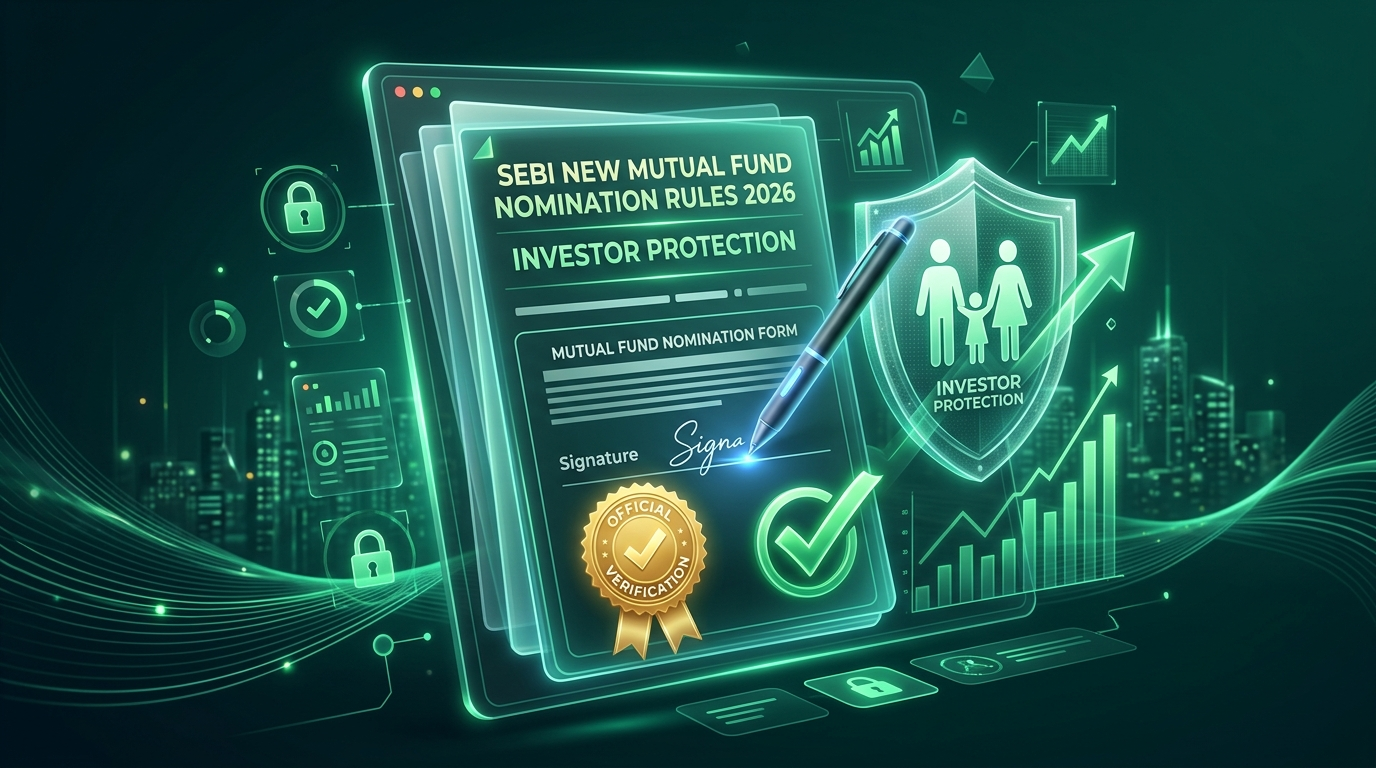
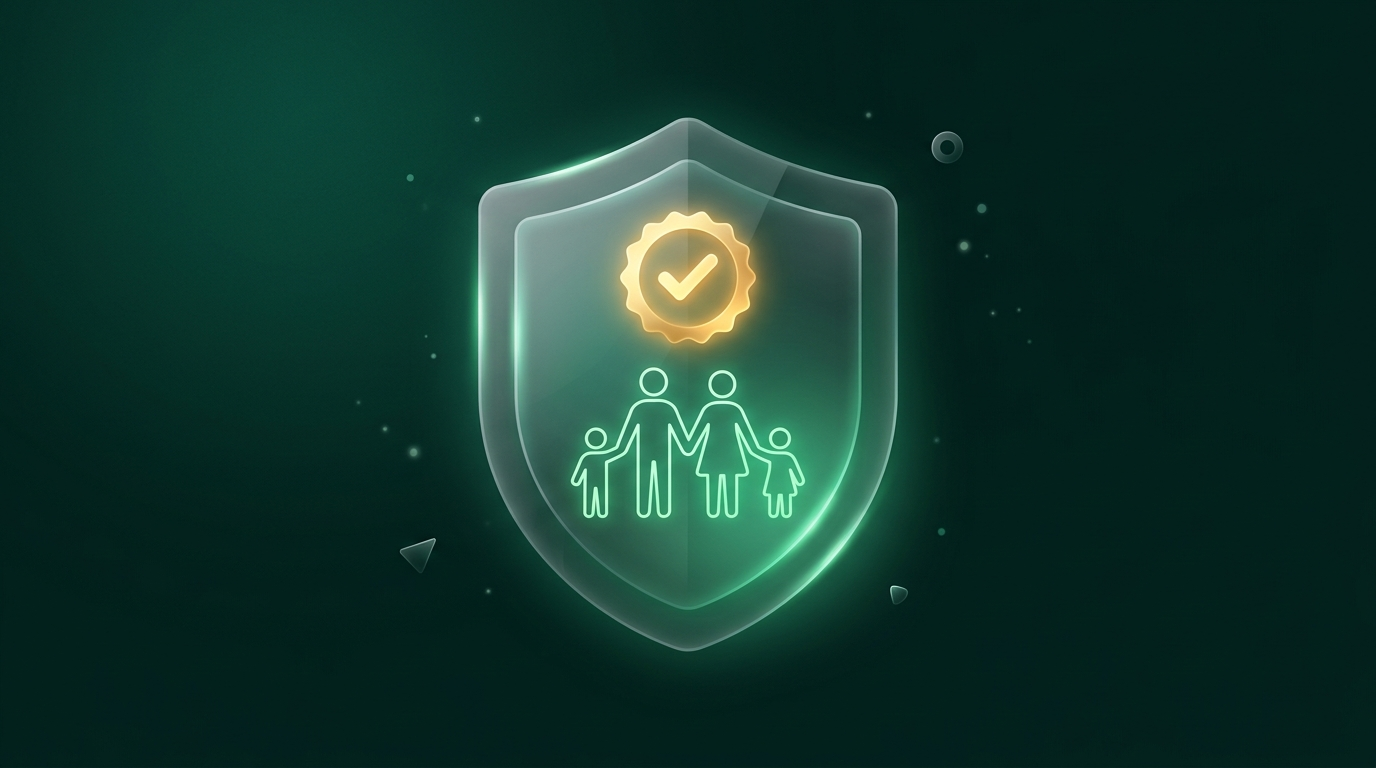
feat: upgrade blog covers to Finshots-style minimalist 16:9 art, add key takeaways and read-time badges

diff --git a/src/app/blog/page.tsx b/src/app/blog/page.tsx
@@ -115,11 +115,28 @@ export default async function BlogPage({
                 const authorName = 'Vikrant Bhardwaj';
                 const postPath = `/blog/${post.slug}`;
                 const coverImage = LOCAL_BLOG_COVERS[post.slug] || post.image_url;
+                const wordCount = post.content ? post.content.split(/\s+/).length : 400;
+                const readTimeMinutes = Math.max(2, Math.ceil(wordCount / 220));
+                
+                // Determine clean category badge
+                let category = 'INVESTING';
+                const lowerTitle = post.title.toLowerCase();
+                if (lowerTitle.includes('nomination') || lowerTitle.includes('sebi') || lowerTitle.includes('rule')) {
+                  category = 'REGULATION';
+                } else if (lowerTitle.includes('market down') || lowerTitle.includes('vix') || lowerTitle.includes('correction')) {
+                  category = 'MARKET STRATEGY';
+                } else if (lowerTitle.includes('tax') || lowerTitle.includes('taxation')) {
+                  category = 'TAX PLANNING';
+                } else if (lowerTitle.includes('sip') || lowerTitle.includes('lump sum') || lowerTitle.includes('mutual fund')) {
+                  category = 'MUTUAL FUNDS';
+                } else if (lowerTitle.includes('himachal') || lowerTitle.includes('salaried') || lowerTitle.includes('employee')) {
+                  category = 'WEALTH PLANNING';
+                }
                 
                 return (
                   <article
                     key={post.id}
-                    className="relative group bg-[#051613]/50 backdrop-blur-md rounded-2xl overflow-hidden border border-emerald-900/40 hover:border-emerald-500/50 hover:shadow-[0_8px_40px_rgba(0,255,151,0.12)] transition-all duration-500 hover:-translate-y-1 flex flex-col h-full"
+                    className="relative group bg-[#051613]/70 backdrop-blur-md rounded-2xl overflow-hidden border border-emerald-900/40 hover:border-emerald-500/50 hover:shadow-[0_8px_40px_rgba(0,255,151,0.15)] transition-all duration-500 hover:-translate-y-1 flex flex-col h-full"
                   >
                     {/* Inner glowing accent */}
                     <div className="absolute inset-0 bg-gradient-to-b from-stockstrail-green/5 to-transparent opacity-0 group-hover:opacity-100 transition-opacity duration-500 pointer-events-none" />
@@ -134,7 +151,17 @@ export default async function BlogPage({
                             className="object-cover group-hover/img:scale-105 transition-transform duration-700 ease-out"
                             sizes="(max-width: 768px) 100vw, (max-width: 1200px) 50vw, 33vw"
                           />
-                          <div className="absolute inset-0 bg-gradient-to-t from-[#051613] via-transparent to-transparent opacity-80" />
+                          <div className="absolute inset-0 bg-gradient-to-t from-[#051613] via-transparent to-transparent opacity-70" />
+                          
+                          {/* Category Badge */}
+                          <div className="absolute top-3 left-3 px-2.5 py-1 rounded-full bg-[#011a18]/85 border border-emerald-500/40 text-[10px] font-mono font-bold uppercase tracking-wider text-emerald-300 backdrop-blur-md">
+                            {category}
+                          </div>
+
+                          {/* Read Time Pill */}
+                          <div className="absolute top-3 right-3 px-2.5 py-1 rounded-full bg-black/60 border border-white/10 text-[10px] font-mono text-slate-300 backdrop-blur-md">
+                            ⏱ {readTimeMinutes} min read
+                          </div>
                         </div>
                       ) : (
                         <div className="w-full aspect-[16/9] relative bg-gradient-to-br from-emerald-900/40 to-[#051613] flex items-center justify-center">
@@ -150,28 +177,28 @@ export default async function BlogPage({
 
                     <div className="flex-1 flex flex-col p-5 sm:p-6 relative z-10">
                       <div className="flex-1">
-                        <h2 className="text-lg sm:text-xl font-semibold mb-2 font-product-sans leading-snug text-stockstrail-green group-hover:text-emerald-300 transition-colors duration-300 line-clamp-2">
+                        <h2 className="text-lg sm:text-xl font-semibold mb-2 font-product-sans leading-snug text-white group-hover:text-emerald-300 transition-colors duration-300 line-clamp-2">
                           <Link href={postPath} className="focus:outline-none before:absolute before:inset-0">
                             {post.title}
                           </Link>
                         </h2>
                         {post.excerpt && (
-                          <p className="text-white/60 text-sm leading-relaxed mb-4 line-clamp-2 font-work-sans">
+                          <p className="text-white/60 text-xs sm:text-sm leading-relaxed mb-4 line-clamp-2 font-work-sans">
                             {post.excerpt}
                           </p>
                         )}
                       </div>
 
-                      <div className="flex items-center justify-between pt-5 mt-auto border-t border-white/5 group-hover:border-emerald-500/20 transition-colors duration-500">
-                        <p className="text-white/40 text-xs sm:text-sm font-work-sans flex items-center gap-1.5">
+                      <div className="flex items-center justify-between pt-4 mt-auto border-t border-white/5 group-hover:border-emerald-500/20 transition-colors duration-500">
+                        <p className="text-white/40 text-xs font-work-sans flex items-center gap-1.5">
                            <svg className="w-3.5 h-3.5" fill="none" viewBox="0 0 24 24" stroke="currentColor">
                             <path strokeLinecap="round" strokeLinejoin="round" strokeWidth={2} d="M8 7V3m8 4V3m-9 8h10M5 21h14a2 2 0 002-2V7a2 2 0 00-2-2H5a2 2 0 00-2 2v12a2 2 0 002 2z" />
                           </svg>
                           {format(new Date(post.created_at), 'MMM d, yyyy')}
                         </p>
-                        <Link href={postPath} className="relative z-20 inline-flex items-center gap-1.5 bg-gradient-to-r from-emerald-500/20 to-stockstrail-green/20 hover:from-emerald-400/40 hover:to-stockstrail-green/40 border border-emerald-500/30 hover:border-emerald-400 text-stockstrail-green hover:text-white font-medium transition-all duration-300 font-work-sans text-xs sm:text-sm px-4 py-1.5 rounded-full shadow-[0_0_15px_rgba(0,255,151,0.1)] hover:shadow-[0_0_20px_rgba(0,255,151,0.3)] backdrop-blur-md group-hover:gap-2.5">
-                          Read Post
-                          <svg className="w-3.5 h-3.5 transition-transform group-hover:translate-x-1" fill="none" stroke="currentColor" viewBox="0 0 24 24">
+                        <Link href={postPath} className="relative z-20 inline-flex items-center gap-1.5 bg-emerald-500/10 hover:bg-emerald-500/25 border border-emerald-500/30 hover:border-emerald-400 text-emerald-300 hover:text-white font-medium transition-all duration-300 font-work-sans text-xs px-3.5 py-1.5 rounded-full shadow-[0_0_15px_rgba(0,255,151,0.1)] hover:shadow-[0_0_20px_rgba(0,255,151,0.3)] backdrop-blur-md group-hover:gap-2">
+                          Read Article
+                          <svg className="w-3 h-3 transition-transform group-hover:translate-x-0.5" fill="none" stroke="currentColor" viewBox="0 0 24 24">
                             <path strokeLinecap="round" strokeLinejoin="round" strokeWidth={2} d="M14 5l7 7m0 0l-7 7m7-7H3" />
                           </svg>
                         </Link>

diff --git a/src/app/blog/[slug]/page.tsx b/src/app/blog/[slug]/page.tsx
@@ -198,32 +198,54 @@ export default async function BlogPostPage({ params }: { params: Promise<{ slug:
             <div className="lg:col-span-2">
               <div className="bg-white/5 backdrop-blur-lg rounded-2xl border border-stockstrail-green-light/20 hover:bg-white/10 hover:border-stockstrail-green-light/40 hover:shadow-[0_0_30px_rgba(0,255,151,0.2)] transition-all duration-500 flex flex-col">
                 <div className="flex-1 p-8">
-                  <article className="space-y-10 text-white">
-                    <div className="text-center space-y-8">
-                      <h1 className="font-product-sans text-3xl sm:text-4xl lg:text-4xl font-normal uppercase gradient-text leading-tight">
+                  <article className="space-y-8 text-white">
+                    <header className="text-center space-y-6">
+                      <h1 className="font-product-sans text-3xl sm:text-4xl lg:text-5xl font-normal uppercase gradient-text leading-tight max-w-4xl mx-auto">
                         {post.title}
                       </h1>
-                      <div className="flex flex-col sm:flex-row items-center justify-center gap-4 sm:gap-8 text-sm sm:text-base pb-8 border-b border-white/10 max-w-3xl mx-auto">
-                        <p className="text-stockstrail-green-light font-work-sans uppercase tracking-wider font-medium">
+                      <div className="flex flex-wrap items-center justify-center gap-3 sm:gap-6 text-xs sm:text-sm pb-6 border-b border-white/10 max-w-3xl mx-auto">
+                        <span className="px-3 py-1 rounded-full bg-emerald-500/15 border border-emerald-500/30 text-emerald-300 font-mono font-bold uppercase tracking-wider text-[11px]">
+                          AMFI ARN-284122
+                        </span>
+                        <p className="text-stockstrail-green-light font-work-sans uppercase tracking-wider font-semibold">
                           {authorName}
                         </p>
-                        <span className="hidden sm:block text-white/30">•</span>
-                        <p className="text-white/50 font-work-sans">
+                        <span className="text-white/30">•</span>
+                        <p className="text-white/60 font-work-sans">
                           {format(new Date(post.created_at), 'd MMMM, yyyy')}
                         </p>
+                        <span className="text-white/30">•</span>
+                        <p className="text-emerald-400 font-mono text-xs">
+                          ⏱ {Math.max(2, Math.ceil((post.content?.split(/\s+/).length || 400) / 220))} min read
+                        </p>
                       </div>
-                    </div>
+                    </header>
+
                     {featuredImage && (
-                      <div className="mb-10 w-full rounded-2xl overflow-hidden border border-white/10 shadow-[0_0_30px_rgba(0,255,151,0.1)]">
+                      <div className="w-full rounded-2xl overflow-hidden border border-white/10 shadow-[0_0_30px_rgba(0,255,151,0.15)] aspect-[16/9] relative bg-[#0a1a17]">
                         <img 
                           src={featuredImage} 
                           alt={post.image_alt || post.title} 
-                          className="w-full h-auto max-h-[60vh] object-cover hover:scale-105 transition-transform duration-700"
+                          className="w-full h-full object-cover hover:scale-105 transition-transform duration-700 ease-out"
                         />
                       </div>
                     )}
+
+                    {/* Quick Summary / Key Takeaways Box (Groww / Finshots Style) */}
+                    {post.excerpt && (
+                      <div className="p-5 sm:p-6 rounded-2xl bg-gradient-to-br from-[#02211d] to-[#011413] border border-emerald-500/30 space-y-2.5 shadow-lg">
+                        <div className="flex items-center gap-2 text-emerald-400 font-mono text-xs font-bold uppercase tracking-wider">
+                          <span className="w-2 h-2 rounded-full bg-emerald-400 animate-pulse" />
+                          <span>30-Second Key Takeaway</span>
+                        </div>
+                        <p className="text-slate-200 text-sm sm:text-base leading-relaxed italic">
+                          &ldquo;{post.excerpt}&rdquo;
+                        </p>
+                      </div>
+                    )}
+
                     {/* Render Markdown content with raw HTML support for legacy posts */}
-                    <div className="blog-content prose prose-sm sm:prose-base lg:prose-lg mx-auto w-full prose-invert">
+                    <div className="blog-content prose prose-sm sm:prose-base lg:prose-lg mx-auto w-full prose-invert pt-4">
                       <ReactMarkdown
                         remarkPlugins={[remarkGfm]}
                         rehypePlugins={[rehypeRaw]}
@@ -238,6 +260,30 @@ export default async function BlogPostPage({ params }: { params: Promise<{ slug:
                       >
                         {post.content}
                       </ReactMarkdown>
+                    </div>
+
+                    {/* Actionable Editorial CTA Card */}
+                    <div className="mt-12 p-6 sm:p-8 rounded-2xl bg-gradient-to-br from-[#042823] to-[#021817] border border-emerald-500/40 text-center space-y-4 shadow-xl">
+                      <h3 className="text-xl sm:text-2xl font-bold font-product-sans text-white">
+                        Need Personalized Guidance on Your Portfolio?
+                      </h3>
+                      <p className="text-slate-300 text-sm sm:text-base max-w-xl mx-auto leading-relaxed">
+                        Stockstrail is an AMFI-Registered Mutual Fund Distributor (ARN-284122). Take our free 2-minute risk assessment or book a 1-on-1 strategy call with our certified advisors.
+                      </p>
+                      <div className="flex flex-wrap items-center justify-center gap-4 pt-2">
+                        <Link
+                          href="/check-risk-profile"
+                          className="px-6 py-3 rounded-full bg-stockstrail-green-light text-black font-bold text-xs sm:text-sm hover:bg-white transition-all shadow-[0_0_20px_rgba(0,255,151,0.3)]"
+                        >
+                          Take Free Risk Quiz
+                        </Link>
+                        <Link
+                          href="/lets-talk"
+                          className="px-6 py-3 rounded-full bg-white/10 hover:bg-white/20 border border-white/20 text-white font-semibold text-xs sm:text-sm transition-all"
+                        >
+                          Book Free Strategy Call →
+                        </Link>
+                      </div>
                     </div>
                   </article>
                 </div>
